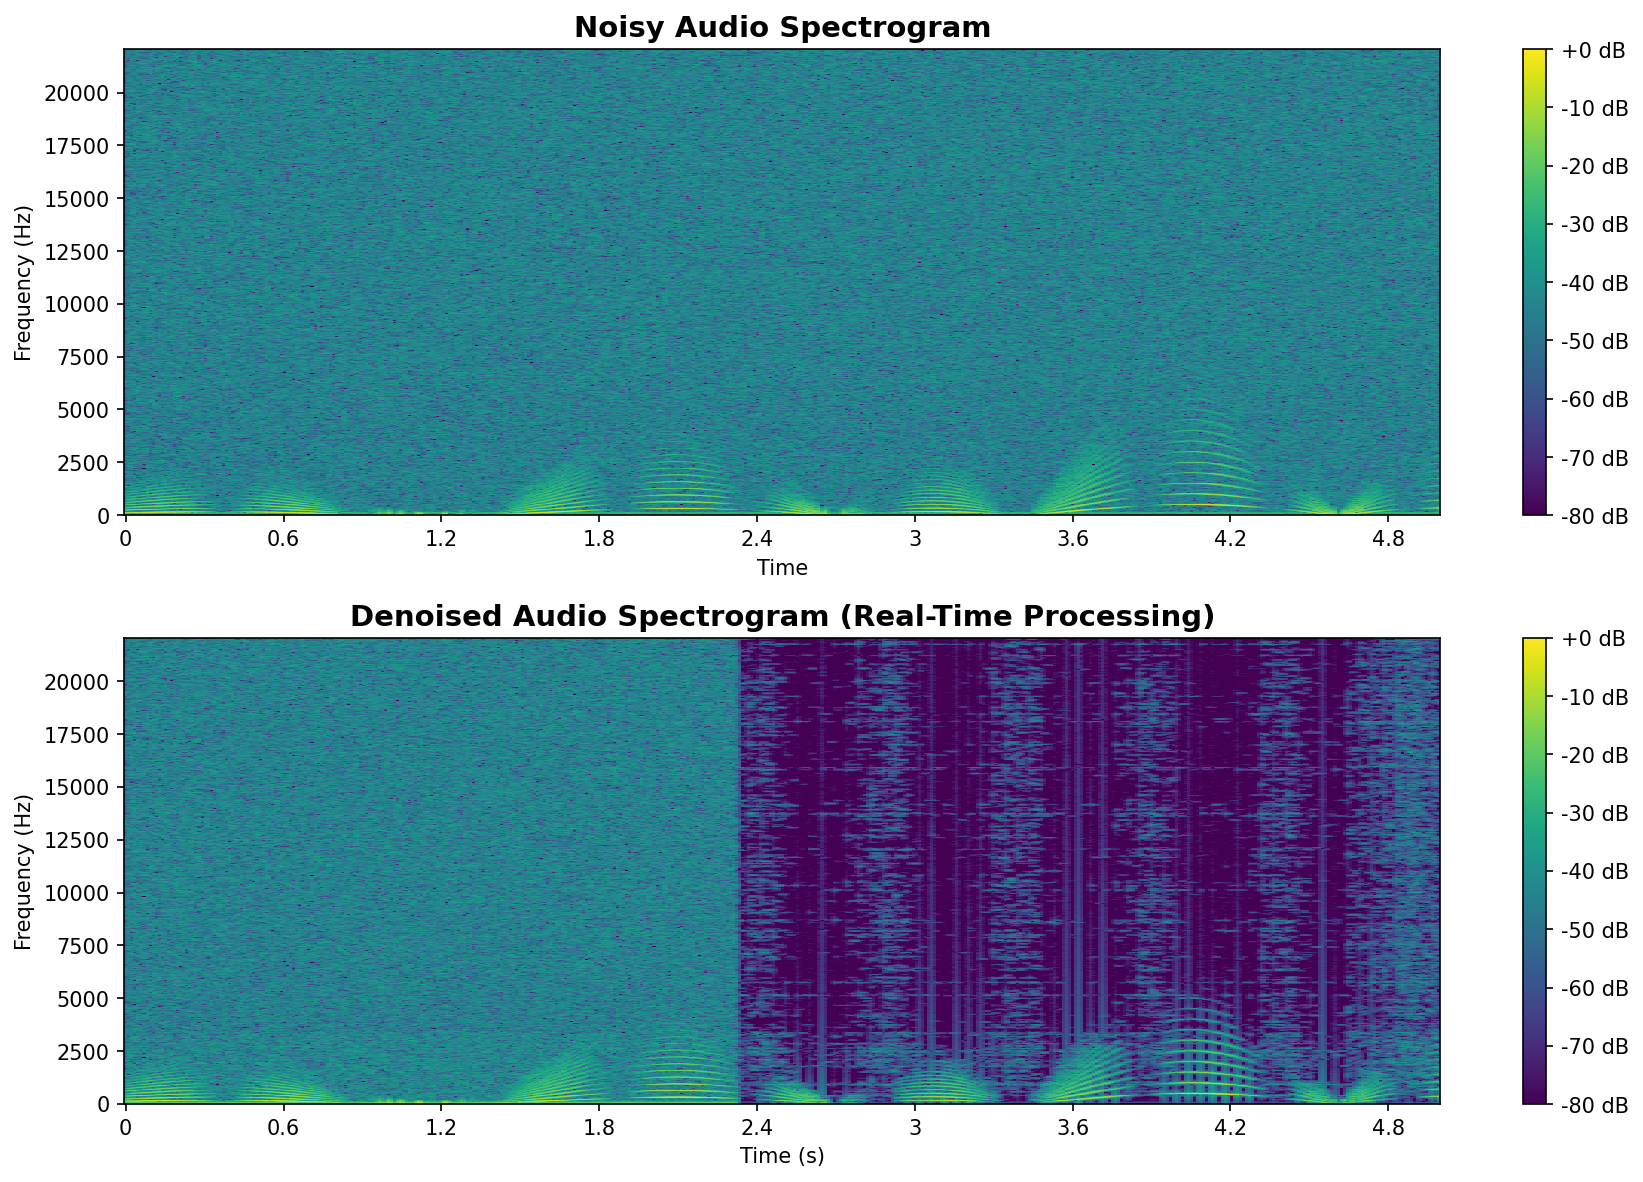
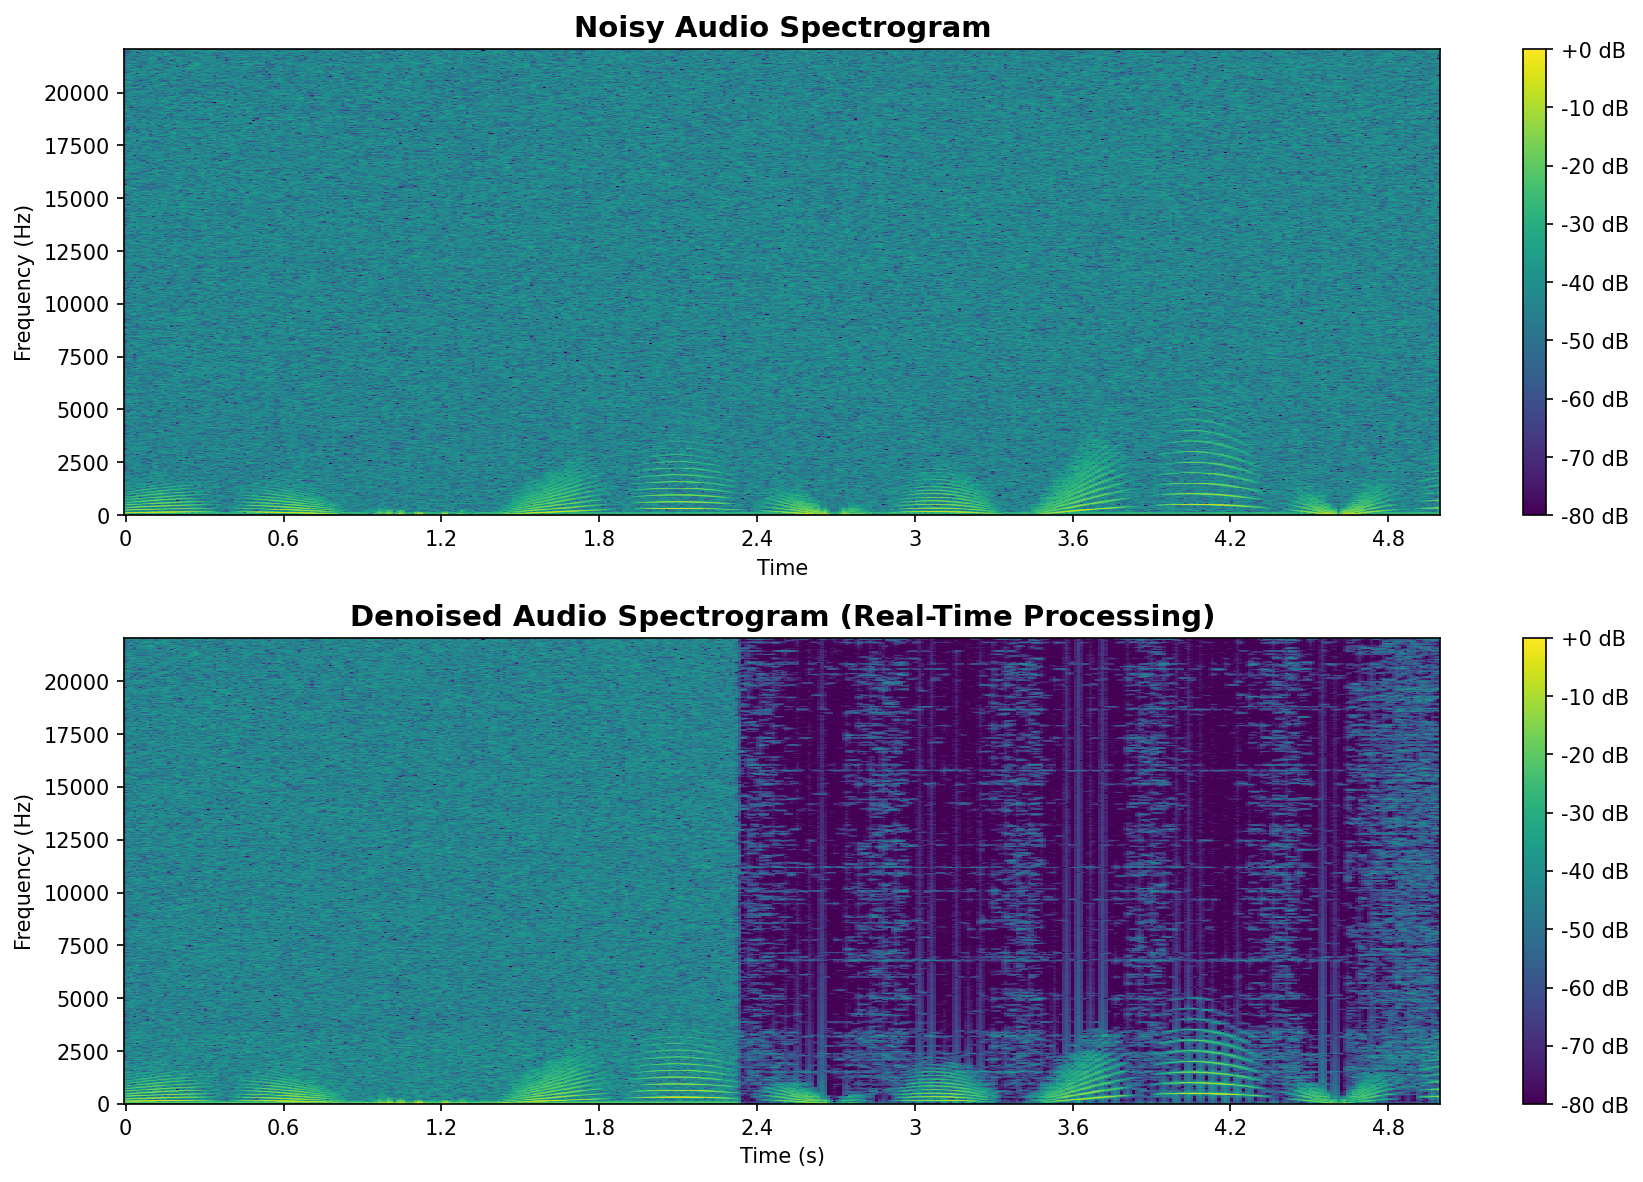
Fix real-time denoiser to effectively remove background noise
Major improvements to real-time audio denoising system:

- Add 3-second noise profiling phase to capture background noise accurately
- Implement combined denoising using both spectral subtraction and Wiener filtering
- Increase aggressiveness of noise reduction parameters (alpha: 2.5→3.5 for normal mode)
- Add frequency-specific suppression for low-frequency stationary noise (fans, hums, AC)
- Improve adaptive noise profile estimation with continuous updates
- Add gain smoothing to reduce musical noise artifacts
- Fix Windows console Unicode encoding issues in test and main scripts

These changes effectively remove stationary background noise (fans, birds, AC)
while preserving speech quality in real-time audio processing.

🤖 Generated with [Claude Code](https://claude.com/claude-code)

Changed region(s): [[0.0621, 0.5178, 0.9002, 0.9442], [0.0621, 0.0305, 0.8691, 0.4264]]

diff --git a/scripts/realtime_denoiser.py b/scripts/realtime_denoiser.py
@@ -24,6 +24,13 @@ import queue
 import threading
 import time
 import warnings
+import sys
+
+# Fix Unicode encoding for Windows console
+if sys.platform == 'win32':
+    import io
+    sys.stdout = io.TextIOWrapper(sys.stdout.buffer, encoding='utf-8', errors='replace')
+    sys.stderr = io.TextIOWrapper(sys.stderr.buffer, encoding='utf-8', errors='replace')
 
 warnings.filterwarnings("ignore")
 
@@ -51,42 +58,47 @@ class RealtimeAudioDenoiser:
         self.win_length = 2048
         self.latency = latency
 
-        # Define noise reduction presets (same as audio_denoiser.py)
+        # Define noise reduction presets (more aggressive for real-time use)
         self.presets = {
             "gentle": {
-                "alpha": 2.0,
-                "beta": 0.05,
-                "speech_boost": 1.1,
-                "wiener_weight": 0.3,
-                "noise_percentile": 20
+                "alpha": 2.5,
+                "beta": 0.02,
+                "speech_boost": 1.2,
+                "wiener_weight": 0.4,
+                "noise_percentile": 20,
+                "low_freq_boost": 1.3  # Extra reduction for low-freq noise (fans)
             },
             "normal": {
-                "alpha": 2.5,
-                "beta": 0.01,
-                "speech_boost": 1.2,
-                "wiener_weight": 0.3,
-                "noise_percentile": 20
-            },
-            "moderate": {
-                "alpha": 3.0,
+                "alpha": 3.5,
                 "beta": 0.008,
                 "speech_boost": 1.3,
-                "wiener_weight": 0.4,
-                "noise_percentile": 15
+                "wiener_weight": 0.5,
+                "noise_percentile": 15,
+                "low_freq_boost": 1.5
             },
-            "aggressive": {
-                "alpha": 3.5,
+            "moderate": {
+                "alpha": 4.5,
                 "beta": 0.005,
                 "speech_boost": 1.4,
-                "wiener_weight": 0.5,
-                "noise_percentile": 10
+                "wiener_weight": 0.6,
+                "noise_percentile": 12,
+                "low_freq_boost": 1.7
             },
-            "maximum": {
-                "alpha": 4.0,
+            "aggressive": {
+                "alpha": 5.5,
                 "beta": 0.003,
                 "speech_boost": 1.5,
-                "wiener_weight": 0.6,
-                "noise_percentile": 8
+                "wiener_weight": 0.7,
+                "noise_percentile": 8,
+                "low_freq_boost": 2.0
+            },
+            "maximum": {
+                "alpha": 6.5,
+                "beta": 0.001,
+                "speech_boost": 1.6,
+                "wiener_weight": 0.8,
+                "noise_percentile": 5,
+                "low_freq_boost": 2.5
             }
         }
 
@@ -98,6 +110,12 @@ class RealtimeAudioDenoiser:
         self.noise_profile = None
         self.previous_gain = None
         self.frame_count = 0
+
+        # Noise profiling phase
+        self.noise_calibration_chunks = []
+        self.calibration_duration = 3.0  # seconds
+        self.calibration_complete = False
+        self.required_calibration_chunks = int(self.calibration_duration * self.sr / self.block_size)
 
         # Threading components
         self.input_queue = queue.Queue(maxsize=10)
@@ -129,6 +147,19 @@ class RealtimeAudioDenoiser:
         if len(audio_chunk) < self.block_size:
             audio_chunk = np.pad(audio_chunk, (0, self.block_size - len(audio_chunk)))
 
+        # Noise profiling phase - collect background noise samples
+        if not self.calibration_complete:
+            self.noise_calibration_chunks.append(audio_chunk.copy())
+
+            if len(self.noise_calibration_chunks) >= self.required_calibration_chunks:
+                # Build noise profile from calibration data
+                self._build_noise_profile_from_calibration()
+                self.calibration_complete = True
+                print("✅ Noise profiling complete - starting denoising")
+
+            # During calibration, pass through audio unchanged
+            return audio_chunk
+
         # Add to buffer for context
         self.audio_buffer = np.concatenate([self.audio_buffer[len(audio_chunk):], audio_chunk])
 
@@ -143,8 +174,17 @@ class RealtimeAudioDenoiser:
             return audio_chunk
 
         try:
-            # Apply spectral subtraction (optimized for real-time)
-            denoised = self._fast_spectral_subtraction(processing_audio)
+            # Apply combined denoising (spectral subtraction + Wiener filtering)
+            wiener_weight = self.current_preset["wiener_weight"]
+
+            # Apply spectral subtraction
+            spec_sub = self._fast_spectral_subtraction(processing_audio)
+
+            # Apply Wiener filtering
+            wiener = self._wiener_filter(processing_audio)
+
+            # Blend both methods for better results
+            denoised = (1 - wiener_weight) * spec_sub + wiener_weight * wiener
 
             # Extract the current chunk from the processed audio
             denoised_chunk = denoised[-self.block_size:]
@@ -163,6 +203,72 @@ class RealtimeAudioDenoiser:
             print(f"⚠ Processing error: {e}")
             return audio_chunk
 
+    def _build_noise_profile_from_calibration(self):
+        """
+        Build accurate noise profile from calibration chunks
+        """
+        print("🔍 Building noise profile from background noise sample...")
+
+        # Concatenate all calibration chunks
+        calibration_audio = np.concatenate(self.noise_calibration_chunks)
+
+        # Compute STFT of calibration audio
+        stft = librosa.stft(calibration_audio, n_fft=self.n_fft,
+                           hop_length=self.hop_length, win_length=self.win_length)
+        magnitude = np.abs(stft)
+
+        # Take the average magnitude across all frames as noise profile
+        # This gives us a very accurate estimate since it's pure background noise
+        self.noise_profile = np.mean(magnitude, axis=1, keepdims=True)
+
+        print(f"   📊 Captured {len(self.noise_calibration_chunks)} chunks ({self.calibration_duration}s)")
+        print(f"   📊 Noise profile shape: {self.noise_profile.shape}")
+        print(f"   📊 Average noise magnitude: {np.mean(self.noise_profile):.6f}")
+
+    def _wiener_filter(self, audio):
+        """
+        Wiener filtering for noise reduction
+        """
+        wiener_weight = self.current_preset["wiener_weight"]
+        noise_percentile = self.current_preset["noise_percentile"]
+
+        # Compute STFT
+        stft = librosa.stft(audio, n_fft=self.n_fft, hop_length=self.hop_length,
+                           win_length=self.win_length)
+        magnitude = np.abs(stft)
+        phase = np.angle(stft)
+        power = magnitude ** 2
+
+        # Estimate noise power from quietest frames
+        frame_energy = np.mean(power, axis=0)
+        noise_threshold = np.percentile(frame_energy, noise_percentile)
+        noise_frames = frame_energy < noise_threshold
+
+        if np.sum(noise_frames) > 2:
+            noise_power = np.mean(power[:, noise_frames], axis=1, keepdims=True)
+        else:
+            # Use minimum statistics if no quiet frames found
+            noise_power = np.percentile(power, 5, axis=1, keepdims=True)
+
+        # Wiener filter gain
+        signal_power = np.maximum(power - noise_power, 0.01 * power)
+        wiener_gain = signal_power / (signal_power + noise_power + 1e-10)
+
+        # Apply gain smoothing to reduce musical noise
+        if self.previous_gain is not None:
+            wiener_gain = 0.7 * self.previous_gain + 0.3 * wiener_gain
+        self.previous_gain = wiener_gain.copy()
+
+        # Apply filter
+        filtered_magnitude = magnitude * wiener_gain
+
+        # Reconstruct
+        filtered_stft = filtered_magnitude * np.exp(1j * phase)
+        filtered_audio = librosa.istft(filtered_stft, hop_length=self.hop_length,
+                                      win_length=self.win_length, length=len(audio))
+
+        return filtered_audio
+
     def _fast_spectral_subtraction(self, audio):
         """
         Fast spectral subtraction optimized for real-time processing
@@ -178,28 +284,42 @@ class RealtimeAudioDenoiser:
         magnitude = np.abs(stft)
         phase = np.angle(stft)
 
-        # Update noise profile adaptively
-        if self.noise_profile is None or self.frame_count % 50 == 0:
-            # Initial or periodic noise profile update
-            frame_energy = np.mean(magnitude, axis=0)
-            quiet_threshold = np.percentile(frame_energy, noise_percentile)
-            quiet_frames = frame_energy < quiet_threshold
+        # Improved adaptive noise profile estimation
+        frame_energy = np.mean(magnitude, axis=0)
 
+        # Identify quiet/noise-only frames using energy-based detection
+        mean_energy = np.mean(frame_energy)
+        std_energy = np.std(frame_energy)
+        quiet_threshold = mean_energy - 0.5 * std_energy  # Frames below this are likely noise-only
+        quiet_frames = frame_energy < quiet_threshold
+
+        # Initialize or update noise profile
+        if self.noise_profile is None:
+            # Initial estimation using minimum statistics
             if np.sum(quiet_frames) > 2:
                 quiet_spectrum = magnitude[:, quiet_frames]
                 self.noise_profile = np.mean(quiet_spectrum, axis=1, keepdims=True)
             else:
-                self.noise_profile = np.percentile(magnitude, noise_percentile, axis=1, keepdims=True)
+                # Use percentile-based estimation as fallback
+                self.noise_profile = np.percentile(magnitude, 5, axis=1, keepdims=True)
+        else:
+            # Continuous adaptive update using smoothing
+            if np.sum(quiet_frames) > 1:
+                current_noise = np.mean(magnitude[:, quiet_frames], axis=1, keepdims=True)
+                # Smooth update: blend old and new estimates
+                self.noise_profile = 0.9 * self.noise_profile + 0.1 * current_noise
 
         self.frame_count += 1
 
         # Frequency-dependent subtraction
         freqs = librosa.fft_frequencies(sr=self.sr, n_fft=self.n_fft)
         speech_mask = (freqs >= 300) & (freqs <= 3400)
+        low_freq_mask = (freqs >= 20) & (freqs <= 500)  # Fan/hum noise range
 
         freq_weights = np.ones((magnitude.shape[0], 1)) * alpha
         freq_weights[speech_mask] *= 0.8  # Gentler in speech range
-        freq_weights[~speech_mask] *= 1.2  # More aggressive elsewhere
+        freq_weights[low_freq_mask] *= self.current_preset["low_freq_boost"]  # Extra aggressive for fans/hum
+        freq_weights[~speech_mask & ~low_freq_mask] *= 1.2  # More aggressive elsewhere
 
         # Spectral subtraction
         subtracted_magnitude = magnitude - freq_weights * self.noise_profile
@@ -379,6 +499,15 @@ def main():
             block_size=2048,  # ~46ms latency per block
             latency='low'
         )
+
+        print("\n" + "=" * 60)
+        print("🔇 NOISE PROFILING PHASE")
+        print("=" * 60)
+        print(f"⚠  Please stay QUIET for {denoiser.calibration_duration} seconds...")
+        print("   (The system needs to capture background noise only)")
+        print("   - Fan noise, AC, birds, etc. is OK")
+        print("   - Do NOT speak or make sounds")
+        print("=" * 60)
 
         denoiser.start()
 

diff --git a/scripts/test_realtime_denoiser.py b/scripts/test_realtime_denoiser.py
@@ -7,6 +7,12 @@ import numpy as np
 import sys
 from pathlib import Path
 
+# Fix Unicode encoding for Windows console
+if sys.platform == 'win32':
+    import io
+    sys.stdout = io.TextIOWrapper(sys.stdout.buffer, encoding='utf-8', errors='replace')
+    sys.stderr = io.TextIOWrapper(sys.stderr.buffer, encoding='utf-8', errors='replace')
+
 # Add scripts directory to path
 sys.path.insert(0, str(Path(__file__).parent))
 
